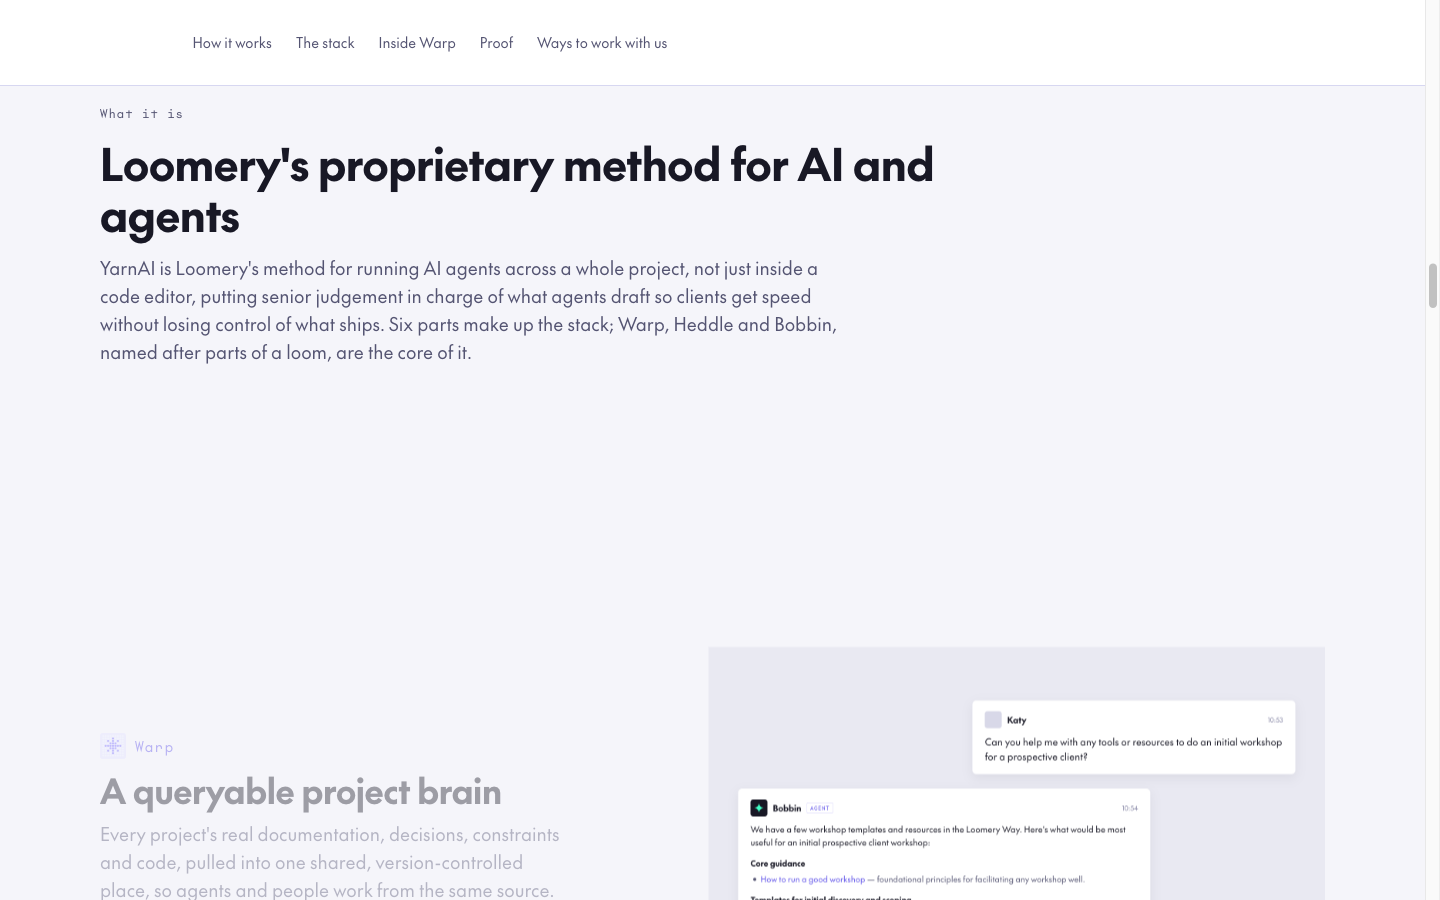
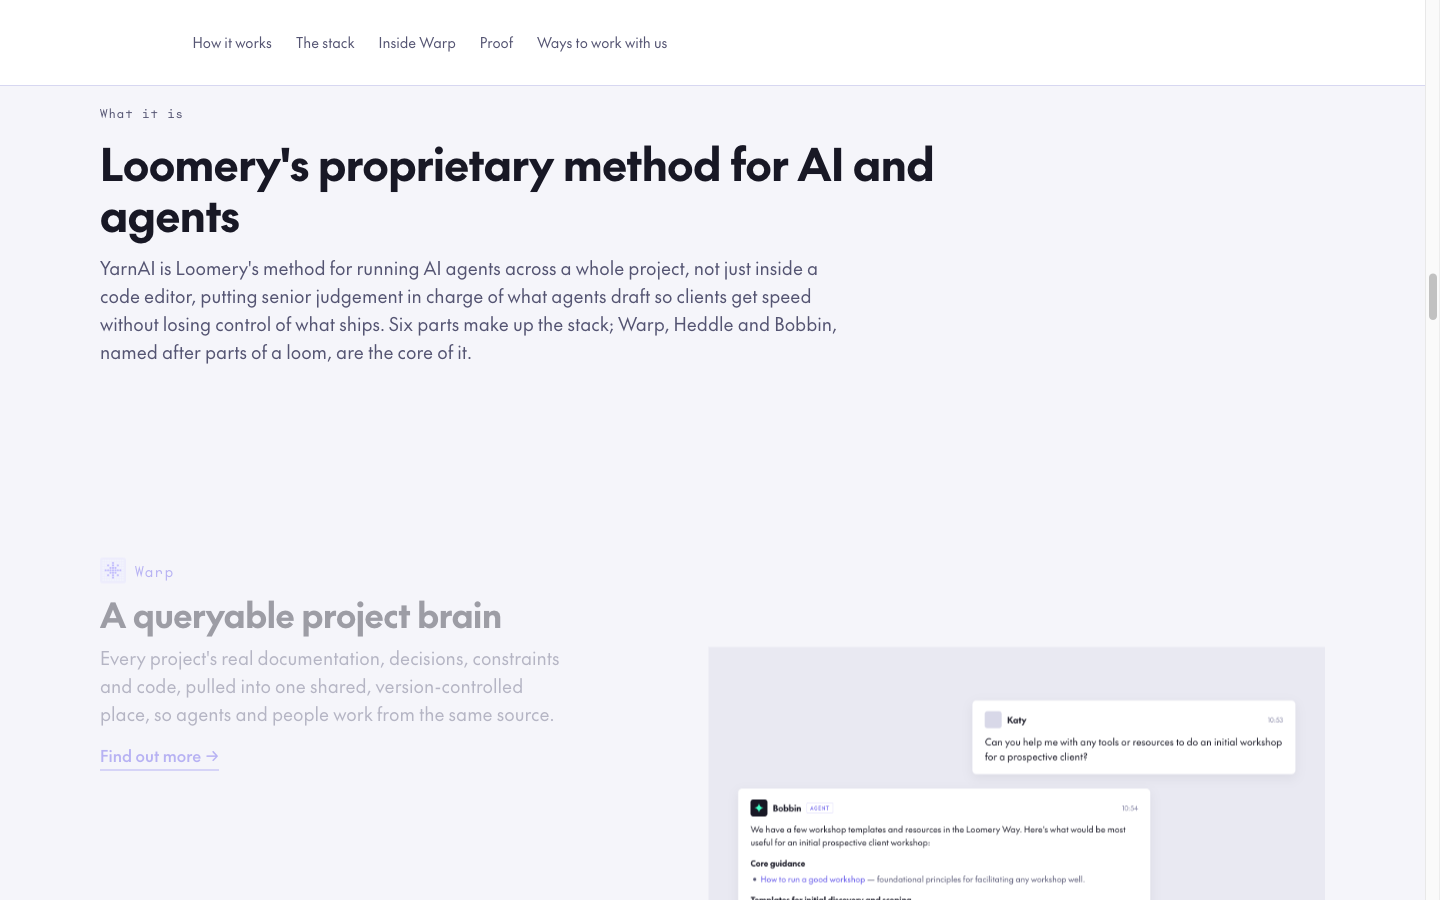
Halve the gaps either side of the product scroll
Lead to Warp: 349px -> 192px. Bobbin to the next band: 434px -> 201px.

Halving the column padding alone only got a third of the way, because
the visible gap is padding + (stepBox - content)/2. The step box came
down with it, 50vh -> 36vh, and the band below took a smaller top margin
since it lands inside the second gap.

The cost, which is worth knowing: that space WAS the centring. The text
and image line up only when padding + stepBox/2 equals half the
viewport, so the gap and the alignment are the same number - the gap
cannot shrink without the alignment going with it. Warp and Bobbin now
sit 175px off centre at 900px tall; Heddle is still exact. Nothing
clips, at 900 or 700, because the offset is in vh and scales.

Section is 2623px -> 1980px.

Changed region(s): [[0.0625, 0.6533, 0.375, 1.0]]

diff --git a/styles.css b/styles.css
@@ -285,8 +285,8 @@ a { color: inherit; }
    step, each setting opacity on the three panes.
    ============================================================ */
 .pscroll { display: grid; grid-template-columns: 1fr 1.15fr; gap: var(--s-7); margin-top: var(--s-4); align-items: stretch; }
-.pscroll__steps { display: flex; flex-direction: column; padding: 25vh 0 25vh; }
-.pstep { min-height: 50vh; justify-content: center; padding: var(--s-6) 0; display: flex; flex-direction: column; gap: 10px; max-width: 460px;
+.pscroll__steps { display: flex; flex-direction: column; padding: 12.5vh 0; }
+.pstep { min-height: 36vh; justify-content: center; padding: var(--s-6) 0; display: flex; flex-direction: column; gap: 10px; max-width: 460px;
   opacity: 0.4; transition: opacity var(--dur-base) var(--ease-out); }
 .pscroll[data-product="warp"]   .pstep[data-product="warp"],
 .pscroll[data-product="heddle"] .pstep[data-product="heddle"],
@@ -320,7 +320,7 @@ a { color: inherit; }
   .ppane { position: relative; opacity: 1; pointer-events: auto; margin-bottom: var(--s-5); }
 }
 
-.stack-divider { margin: var(--s-7) 0 var(--s-4); display: flex; align-items: center; gap: var(--s-3); }
+.stack-divider { margin: var(--s-5) 0 var(--s-4); display: flex; align-items: center; gap: var(--s-3); }
 .stack-divider__label { font-family: var(--font-mono); font-size: 18px; letter-spacing: 0.02em; color: var(--text-secondary); white-space: nowrap; }
 .stack-divider__rule { height: 1px; background: var(--border-subtle); flex: 1; }
 .stack-rest { display: grid; grid-template-columns: repeat(3, 1fr); gap: var(--s-4); }
